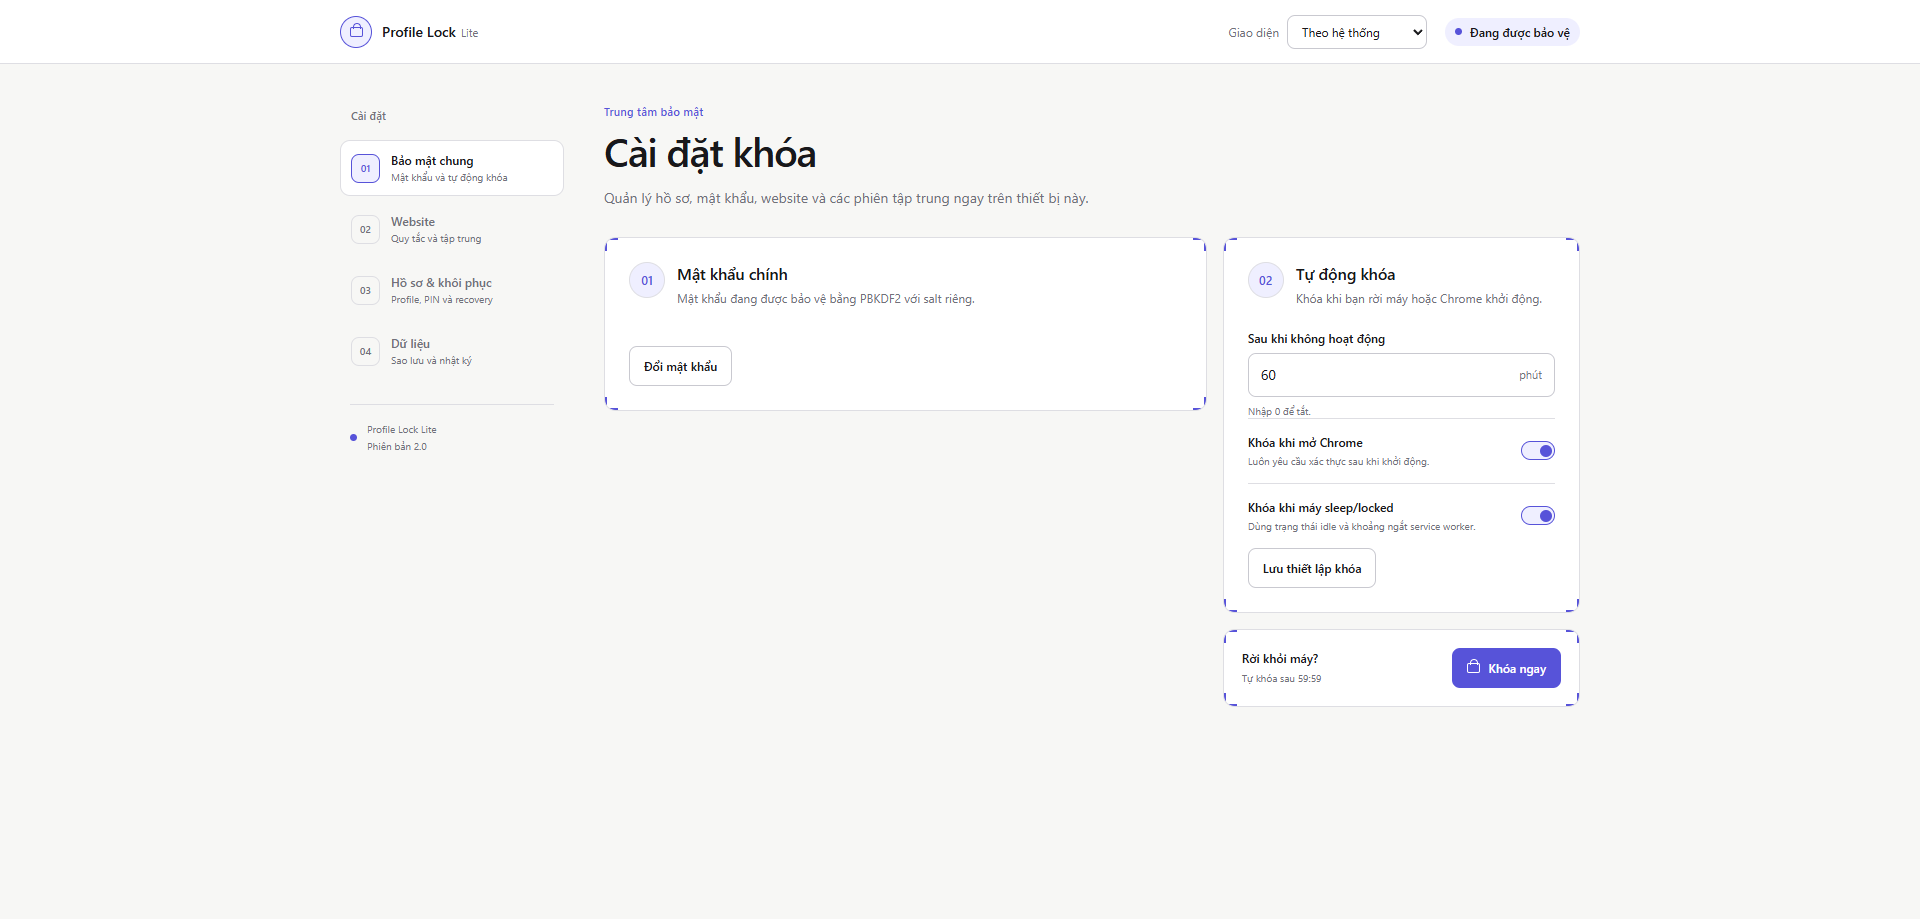
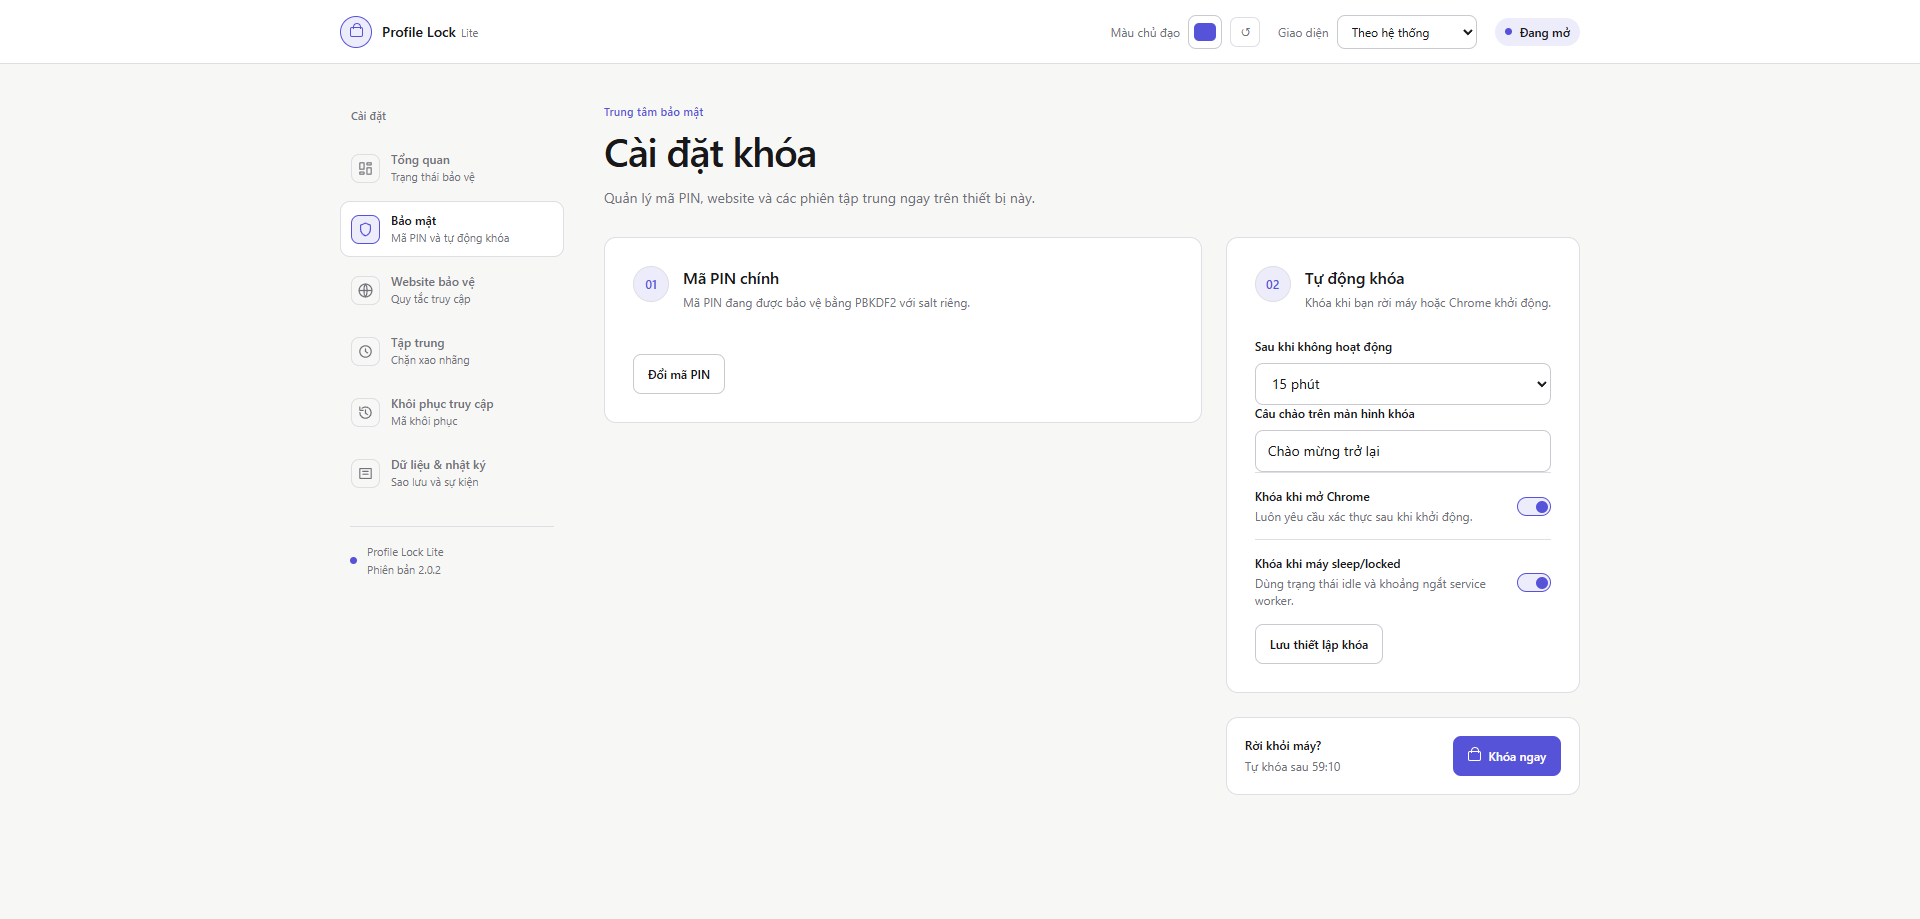
docs: refresh extension screenshots

diff --git a/README.md b/README.md
@@ -21,6 +21,32 @@ Phiên bản hiện tại: **2.0.2**.
 - Giao diện sáng, tối hoặc theo hệ thống; chọn màu chủ đạo tùy ý. Màu chữ và màu tương tác tự hiệu chỉnh để giữ độ tương phản.
 - Xuất/nhập cấu hình không chứa mã PIN, mã khôi phục, verifier hoặc salt; nhật ký tối đa 200 sự kiện.
 
+## Giao diện
+
+### Tổng quan trạng thái
+
+![Dashboard tổng quan trạng thái bảo vệ](docs/screenshots/dashboard.png)
+
+### Bảo mật và tự động khóa
+
+![Cài đặt mã PIN và tự động khóa](docs/screenshots/security-settings.png)
+
+### Website bảo vệ
+
+![Quản lý website bảo vệ bằng domain chip](docs/screenshots/website-protection.png)
+
+### Chế độ Tập trung
+
+![Thiết lập Chế độ Tập trung](docs/screenshots/focus-mode.png)
+
+### Khôi phục quyền truy cập
+
+![Tạo mã khôi phục mới](docs/screenshots/recovery-access.png)
+
+### Dữ liệu và nhật ký bảo mật
+
+![Sao lưu cấu hình và nhật ký bảo mật](docs/screenshots/backup-security-log.png)
+
 ## Cài đặt
 
 ### Load trực tiếp mã nguồn
@@ -102,17 +128,14 @@ src/
 - Giao diện sáng/tối/theo hệ thống; thử màu rất sáng, rất tối và kiểm tra focus bằng bàn phím.
 - Xuất/nhập cấu hình và xác nhận file không có credential.
 
-## Danh sách screenshot cần chụp thủ công
+## Screenshot còn cần chụp thủ công
 
 Sau khi load bản build trong Chrome, chụp và lưu vào `docs/screenshots/`:
 
 - `onboarding-pin.png`
 - `onboarding-recovery.png`
-- `dashboard.png`
 - `popup-protected.png`
 - `popup-unprotected.png`
-- `website-protection.png`
-- `focus-mode.png`
 - `lock-screen.png`
 
 ## Quyền riêng tư